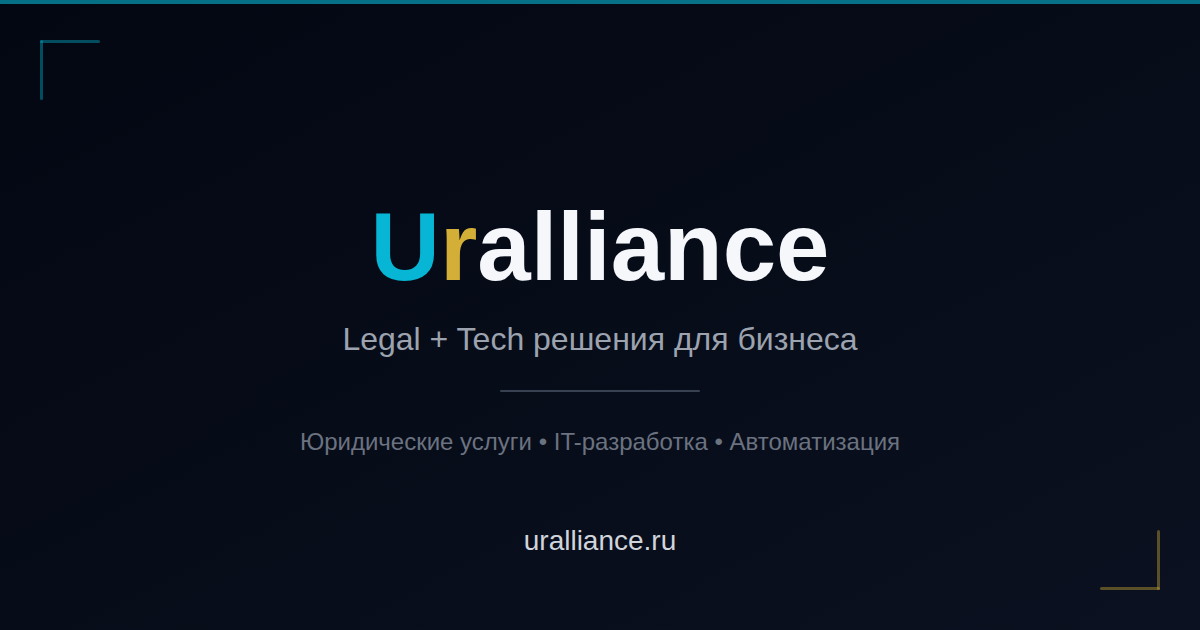
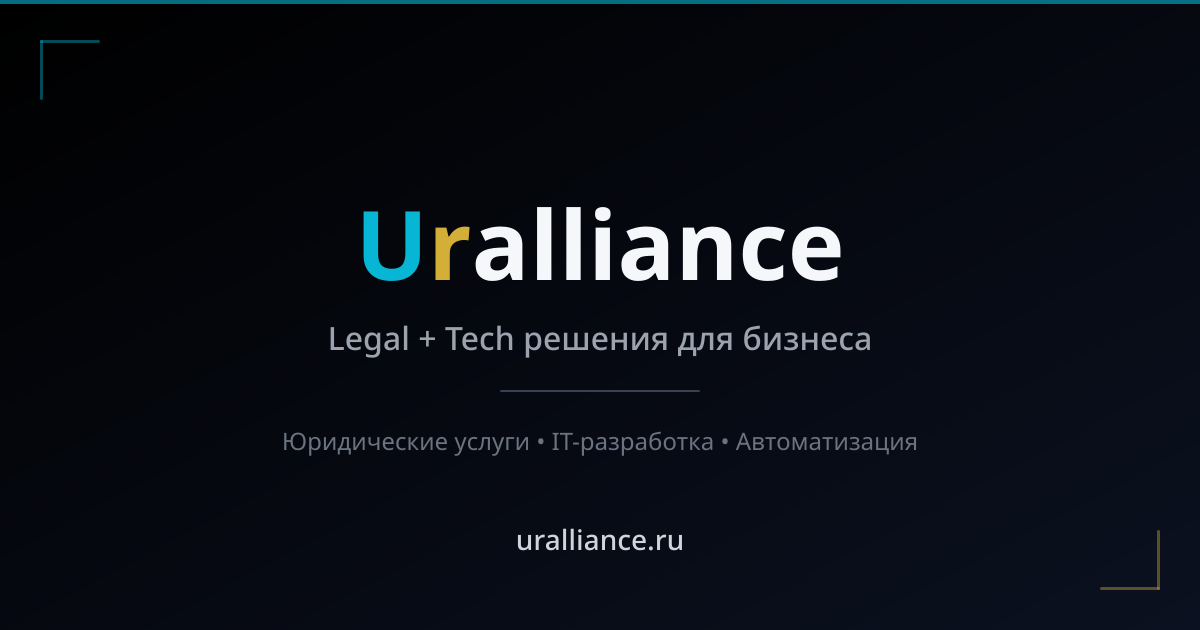
fix: regenerate og-image.png with updated colors and bump cache version
- Regenerated PNG from updated SVG with new gold "r" color
- Bumped OG_IMAGE_VERSION to v3 for WhatsApp cache busting

diff --git a/src/lib/seo.ts b/src/lib/seo.ts
@@ -16,7 +16,7 @@ const LOGO_URL = `${DEFAULT_SITE_URL}/images/logo.svg`;
  * OG image version for cache busting
  * Увеличивай при изменении og-image.png чтобы сбросить кэш соцсетей
  */
-const OG_IMAGE_VERSION = "v2";
+const OG_IMAGE_VERSION = "v3";
 
 /**
  * Default OG image configuration for all pages
